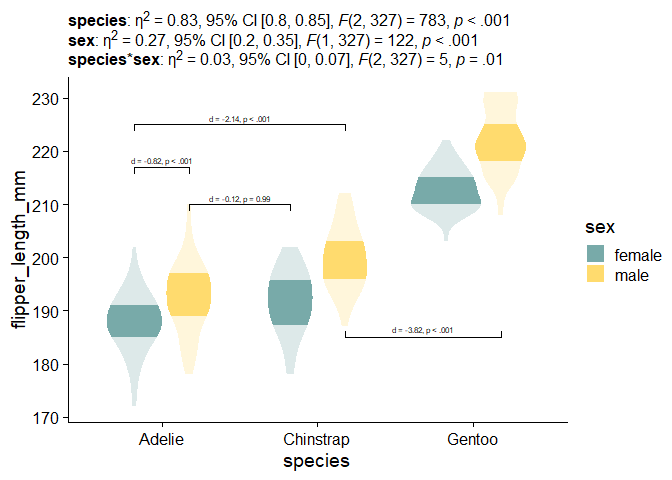
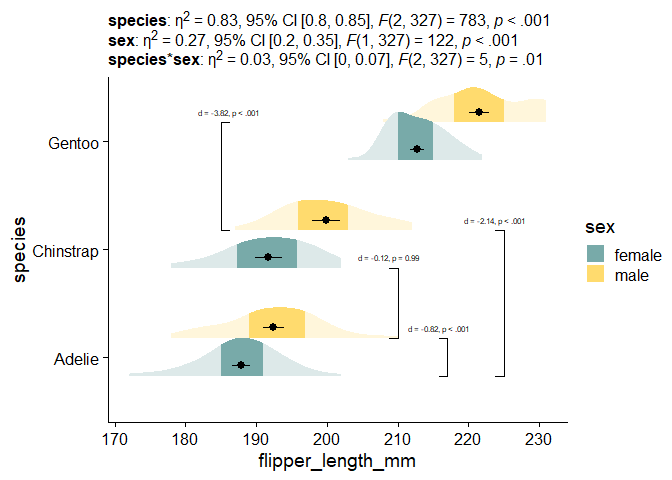
try without violin

diff --git a/README.md b/README.md
@@ -196,29 +196,20 @@ report_tidy_t(
 
 ``` r
 #Just for this plotting workflow
-
+library(ggpp) # for position_dodge2nudge
 library(cowplot)
-#> 
-#> Attaching package: 'cowplot'
-#> The following object is masked from 'package:lubridate':
-#> 
-#>     stamp
 library(ggdist)
 library(ggpubr) # significance brackets
-#> 
-#> Attaching package: 'ggpubr'
-#> The following object is masked from 'package:cowplot':
-#> 
-#>     get_legend
+
 
 # Define color palette
 nova_palette <- c("#78AAA9", "#FFDB6E")
 
 ggplot(data = df,
-                       aes(y = flipper_length_mm, # our dependent/response/outcome variable 
-                           x = species,  # our grouping/independent/predictor variable
-                           fill = sex)) +  # our third grouping/independent/interaction variable
-  ggdist::stat_slab(side = "both",  
+       aes(y = flipper_length_mm, # our dependent/response/outcome variable 
+           x = species,  # our grouping/independent/predictor variable
+           fill = sex)) +  # our third grouping/independent/interaction variable
+  ggdist::stat_slab(side = "right",  
                     aes(fill_ramp = after_stat(level)),
                     .width = c(.50, 1),
                     position = position_dodge(width = .7)) +
@@ -230,11 +221,19 @@ ggplot(data = df,
        labs(subtitle = paste0("**species**: ", report_tidy_anova_etaci(flipper_anova,"species"), "<br>",
                            "**sex**: ", report_tidy_anova_etaci(flipper_anova,"sex"), "<br>",
                            "**species*sex**: ",report_tidy_anova_etaci(flipper_anova,"species:sex"))
-         ) +
+         ) + # add a density slab
+  geom_pointrange(data = flipper_summary, # our externally-defined summary dataframe
+                  aes(x = species,  # our independent variable
+                      y = mean, # our outcome/dependent variable
+                      ymin = loci,  # lower-bound confidence interval
+                      ymax = upci # upper-bound confidence interval
+                  ), 
+                  show.legend = F,
+                  position = position_dodge2nudge(x=.1,width = .7)) +
   
   ggpubr::geom_bracket(inherit.aes = FALSE, # necessary for factorial design
                        tip.length = 0.02, 
-                       vjust = 0,
+                       vjust = -0.6,
                        xmin = 1.175, # You need to play with these by hand
                        xmax = 1.825, 
                        y.position = 210 ,
@@ -249,7 +248,7 @@ ggplot(data = df,
   ) +
   ggpubr::geom_bracket(inherit.aes = FALSE, 
                        tip.length = 0.02, 
-                       vjust = 0,
+                       vjust = -0.6,
                        xmin = .825, 
                        xmax = 1.175, 
                        y.position = 217 ,
@@ -262,7 +261,7 @@ ggplot(data = df,
   ) +
   ggpubr::geom_bracket(inherit.aes = FALSE, 
                        tip.length = 0.02, 
-                       vjust = 0,
+                       vjust = -0.6,
                        xmin = .825, 
                        xmax = 2.175, 
                        y.position = 225 ,
@@ -276,7 +275,7 @@ ggplot(data = df,
   ) +
   ggpubr::geom_bracket(inherit.aes = FALSE, 
                        tip.length = -0.02, 
-                       vjust = 0.6,
+                       vjust = -0.6,
                        xmin = 2.175, 
                        xmax = 3.175, 
                        y.position = 185 ,
@@ -290,7 +289,8 @@ ggplot(data = df,
 
   cowplot::theme_half_open() +
   guides(fill_ramp = "none")  +
-  theme(plot.subtitle = ggtext::element_markdown())
+  theme(plot.subtitle = ggtext::element_markdown()) + 
+  coord_flip() 
 ```
 
-<img src="man/figures/README-message-1.png" width="100%" />
+<img src="man/figures/README-unnamed-chunk-10-1.png" width="100%" />
